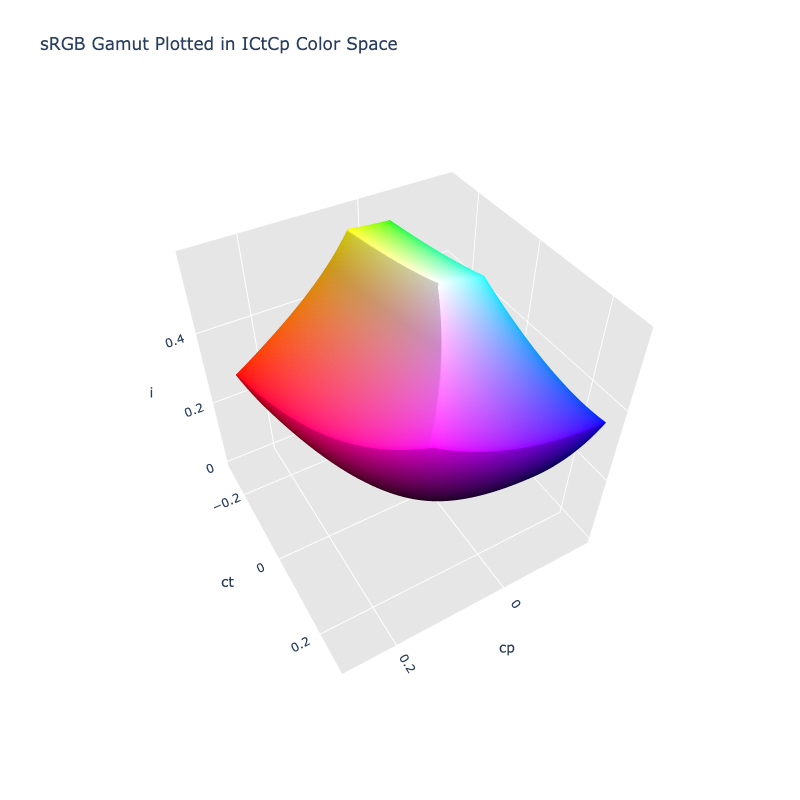
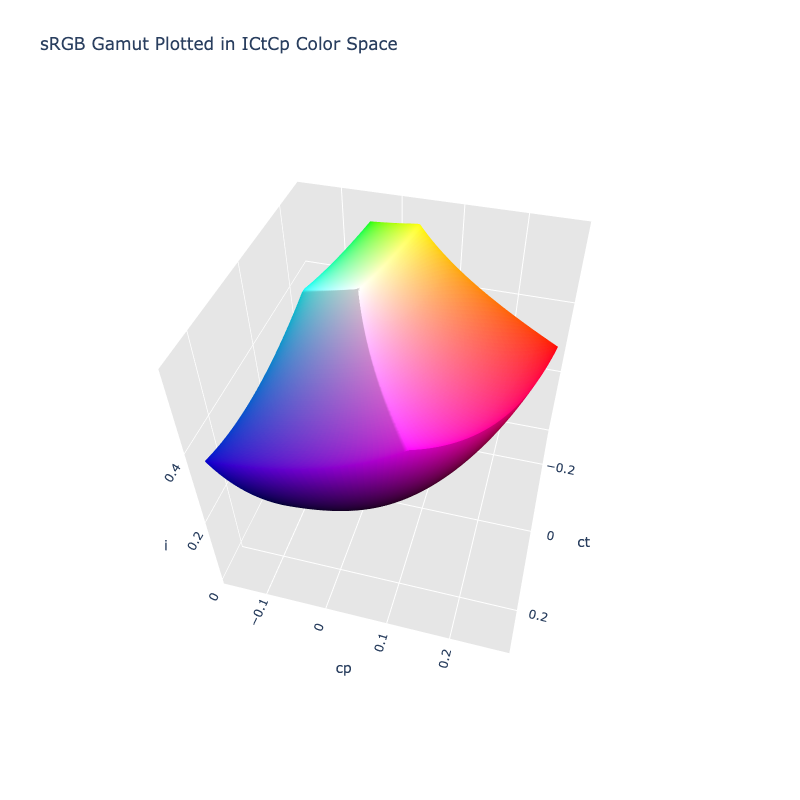
Harmony should be aware of component order on cyl convert (#347)
Additionally, fix some related issues having to do with XYB range,
and what order Lab like colors report their components in.

Changed region(s): [[0.1875, 0.2188, 0.8125, 0.7812], [0.375, 0.7188, 0.6875, 0.8438]]

diff --git a/docs/theme/playground-config-fc36ccf6.js b/docs/theme/playground-config-fc36ccf6.js
@@ -1,0 +1,5 @@
+var colorNotebook = {
+    "playgroundWheels": ['Pygments-2.12.0-py3-none-any.whl', 'coloraide-2.7.1-py3-none-any.whl'],
+    "notebookWheels": ['pyyaml', 'Markdown-3.3.4-py3-none-any.whl', 'pymdown_extensions-9.10-py3-none-any.whl', 'Pygments-2.12.0-py3-none-any.whl', 'coloraide-2.7.1-py3-none-any.whl'],
+    "defaultPlayground": "import coloraide\ncoloraide.__version__\nColor('red')"
+}

diff --git a/docs/src/markdown/demos/colorpicker.html b/docs/src/markdown/demos/colorpicker.html
@@ -404,7 +404,7 @@
     let pyodide = null
     let webspace = ''
     let initial = 'oklab(0.69 0.13 -0.1 / 0.85)'
-    let package = 'coloraide-2.7-py3-none-any.whl'
+    let package = 'coloraide-2.7.1-py3-none-any.whl'
     const displayMapping = 'clip'
 
     const base = `${window.location.origin}/${window.location.pathname.split('/')[1]}/playground/`

diff --git a/docs/src/markdown/demos/3d_models.html b/docs/src/markdown/demos/3d_models.html
@@ -661,7 +661,7 @@ let busyTarget = null
 let colorSpaces = null
 let colorGamuts = null
 let lastModel = null
-let package = 'coloraide-2.7-py3-none-any.whl'
+let package = 'coloraide-2.7.1-py3-none-any.whl'
 const defaultSpace = 'lab'
 const defaultGamut = 'srgb'
 const exceptions = new Set(['hwb', 'hpluv'])

diff --git a/coloraide/harmonies.py b/coloraide/harmonies.py
@@ -7,6 +7,7 @@ from .spaces.hsl import HSL
 from .spaces.lch import LCh
 from .cat import WHITES
 from . import util
+from .types import Vector
 from typing import TYPE_CHECKING, Any
 
 if TYPE_CHECKING:  # pragma: no cover
@@ -14,6 +15,44 @@ if TYPE_CHECKING:  # pragma: no cover
 
 WHITE = util.xy_to_xyz(WHITES['2deg']['D65'])
 BLACK = [0, 0, 0]
+
+
+class _HarmonyLCh(LCh):
+    """Special LCh mapping class for harmonies."""
+
+    INDEXES = [0, 1, 2]
+
+    def to_base(self, coords: Vector) -> Vector:
+        """Convert to the base."""
+
+        ordered = [0.0, 0.0, 0.0]
+        for e, c in enumerate(super().to_base(coords)):
+            ordered[self.INDEXES[e]] = c
+        return ordered
+
+    def from_base(self, coords: Vector) -> Vector:
+        """Convert from the base."""
+
+        return super().from_base([coords[i] for i in self.INDEXES])
+
+
+class _HarmonyHSL(HSL):
+    """Special HSL mapping class for harmonies."""
+
+    INDEXES = [0, 1, 2]
+
+    def to_base(self, coords: Vector) -> Vector:
+        """Convert to the base."""
+
+        ordered = [0.0, 0.0, 0.0]
+        for e, c in enumerate(super().to_base(coords)):
+            ordered[self.INDEXES[e]] = c
+        return ordered
+
+    def from_base(self, coords: Vector) -> Vector:
+        """Convert from the base."""
+
+        return super().from_base([coords[i] for i in self.INDEXES])
 
 
 def adjust_hue(hue: float, deg: float) -> float:
@@ -41,12 +80,13 @@ class Harmony(metaclass=ABCMeta):
             cs = color._space  # type: Space
             name = color.space()
 
-            class HarmonyLCh(LCh):
+            class HarmonyLCh(_HarmonyLCh):
                 NAME = '-harmony-cylinder'
                 SERIALIZE = ('---harmoncy-cylinder',)
                 BASE = name
                 WHITE = cs.WHITE
                 DYAMIC_RANGE = cs.DYNAMIC_RANGE
+                INDEXES = cs.indexes()  # type: ignore[attr-defined]
 
             class ColorCyl(type(color)):  # type: ignore[misc]
                 """Custom color."""
@@ -60,13 +100,14 @@ class Harmony(metaclass=ABCMeta):
             cs = color._space
             name = color.space()
 
-            class HarmonyHSL(HSL):
+            class HarmonyHSL(_HarmonyHSL, HSL):
                 NAME = '-harmony-cylinder'
                 SERIALIZE = ('---harmoncy-cylinder',)
                 BASE = name
                 GAMUT_CHECK = name
                 WHITE = cs.WHITE
                 DYAMIC_RANGE = cs.DYNAMIC_RANGE
+                INDEXES = cs.indexes() if hasattr(cs, 'indexes') else [0, 1, 2]
 
             class ColorCyl(type(color)):  # type: ignore[no-redef, misc]
                 """Custom color."""

diff --git a/tools/gen_3d_models.py b/tools/gen_3d_models.py
@@ -58,7 +58,7 @@ models = {
     'rlab': {'title': TEMPLATE.format('RLAB'), 'filename': 'rlab-3d.png'},
     'hunter-lab': {'title': TEMPLATE.format('Hunter Lab'), 'filename': 'hunter-lab-3d.png', 'elev': 5, 'azim': -30},
     'ipt': {'title': TEMPLATE.format('IPT'), 'filename': 'ipt-3d.png'},
-    'ictcp': {'title': TEMPLATE.format('ICtCp'), 'filename': 'ictcp-3d.png', 'azim': 60},
+    'ictcp': {'title': TEMPLATE.format('ICtCp'), 'filename': 'ictcp-3d.png', 'azim': 15},
     'igpgtg': {'title': TEMPLATE.format('IgPgTg'), 'filename': 'igpgtg-3d.png'},
     'cam16': {'title': TEMPLATE.format('CAM16'), 'filename': 'cam16-3d.png'},
     'cam16-ucs': {'title': TEMPLATE.format('CAM16 UCS'), 'filename': 'cam16-ucs-3d.png'},
@@ -67,7 +67,7 @@ models = {
     'cam16-jmh': {'title': TEMPLATE.format('CAM16 JMh'), 'filename': 'cam16-jmh-3d.png'},
     'hct': {'title': TEMPLATE.format('HCT'), 'filename': 'hct-3d.png'},
     'cmy': {'title': TEMPLATE.format('CMY'), 'filename': 'cmy-3d.png'},
-    'orgb': {'title': TEMPLATE.format('oRGB'), 'filename': 'orgb-3d.png', 'elev': 72},
+    'orgb': {'title': TEMPLATE.format('oRGB'), 'filename': 'orgb-3d.png', 'azim': -90, 'elev': 80},
     'xyb': {'title': TEMPLATE.format('XYB'), 'filename': 'xyb-3d.png', 'azim': 45},
     'ucs': {'title': TEMPLATE.format('UCS'), 'filename': 'ucs-3d.png', 'azim': 60, 'elev': 10},
     'ryb': {'title': 'RYB Color Space', 'filename': 'ryb-3d.png', 'gamut': 'ryb'},

diff --git a/tests/test_xyb.py b/tests/test_xyb.py
@@ -22,12 +22,12 @@ class TestXYB(util.ColorAssertsPyTest):
         # Test color
         ('color(--xyb 0.5 0.1 -0.1)', 'color(--xyb 0.5 0.1 -0.1)'),
         ('color(--xyb 0.5 0.1 -0.1 / 0.5)', 'color(--xyb 0.5 0.1 -0.1 / 0.5)'),
-        ('color(--xyb 50% 50% -50% / 50%)', 'color(--xyb 0.225 0.4225 -0.225 / 0.5)'),
+        ('color(--xyb 50% 50% -50% / 50%)', 'color(--xyb 0.025 0.4225 -0.225 / 0.5)'),
         ('color(--xyb none none none / none)', 'color(--xyb none none none / none)'),
         # Test percent ranges
         ('color(--xyb 0% 0% 0%)', 'color(--xyb 0 0 0)'),
-        ('color(--xyb 100% 100% 100%)', 'color(--xyb 0.45 0.845 0.45)'),
-        ('color(--xyb -100% -100% -100%)', 'color(--xyb -0.45 -0.845 -0.45)')
+        ('color(--xyb 100% 100% 100%)', 'color(--xyb 0.05 0.845 0.45)'),
+        ('color(--xyb -100% -100% -100%)', 'color(--xyb -0.05 -0.845 -0.45)')
     ]
 
     @pytest.mark.parametrize('color1,color2', COLORS)

diff --git a/coloraide/spaces/ictcp.py b/coloraide/spaces/ictcp.py
@@ -102,17 +102,6 @@ class ICtCp(Lab):
     WHITE = WHITES['2deg']['D65']
     DYNAMIC_RANGE = 'hdr'
 
-    def names(self) -> tuple[str, ...]:
-        """
-        Return Lab-ish names in the order L a b.
-
-        ICtCp flips protan and tritan (which corresponds to `a` and `b`).
-        Interestingly, the polarity of tritan (yellow/blue) is also flipped.
-        """
-
-        channels = self.channels
-        return channels[0], channels[2], channels[1]
-
     def to_base(self, coords: Vector) -> Vector:
         """To XYZ from ICtCp."""
 

diff --git a/coloraide/spaces/orgb.py b/coloraide/spaces/orgb.py
@@ -75,16 +75,6 @@ class oRGB(Labish, Space):
         "luma": "l"
     }
 
-    def names(self) -> tuple[str, ...]:
-        """
-        Return Lab-ish names in the order L a b.
-
-        oRGB flips the `crg` and `cyb` equivalent (which corresponds to `a` and `b`).
-        """
-
-        channels = self.channels
-        return channels[0], channels[2], channels[1]
-
     def to_base(self, coords: Vector) -> Vector:
         """To base from oRGB."""
 

diff --git a/coloraide/spaces/xyb.py b/coloraide/spaces/xyb.py
@@ -77,7 +77,7 @@ class XYB(Labish, Space):
     SERIALIZE = ("--xyb",)
     WHITE = WHITES['2deg']['D65']
     CHANNELS = (
-        Channel("x", -0.45, 0.45, flags=FLG_MIRROR_PERCENT),
+        Channel("x", -0.05, 0.05, flags=FLG_MIRROR_PERCENT),
         Channel("y", 0.0, 0.845),
         Channel("b", -0.45, 0.45, flags=FLG_MIRROR_PERCENT)
     )

diff --git a/tests/test_ictcp.py b/tests/test_ictcp.py
@@ -100,4 +100,4 @@ class TestICtCpProperties(util.ColorAsserts, unittest.TestCase):
         """Test `labish_names`."""
 
         c = Color('color(--ictcp 1 0.2 -0.3 / 1)')
-        self.assertEqual(c._space.names(), ('i', 'cp', 'ct'))
+        self.assertEqual(c._space.names(), ('i', 'ct', 'cp'))

diff --git a/tests/test_orgb.py b/tests/test_orgb.py
@@ -100,4 +100,4 @@ class TestoRGBPoperties(util.ColorAsserts, unittest.TestCase):
         """Test `labish_names`."""
 
         c = Color('color(--orgb 1 0.5 0.5)')
-        self.assertEqual(c._space.names(), ('l', 'crg', 'cyb'))
+        self.assertEqual(c._space.names(), ('l', 'cyb', 'crg'))

diff --git a/tools/gamut_3d_plotly.py b/tools/gamut_3d_plotly.py
@@ -17,7 +17,7 @@ except ImportError:
 from coloraide.spaces import HSLish, HSVish, Cylindrical, Labish, LChish, RGBish  # noqa: E402
 from coloraide import algebra as alg  # noqa: E402
 
-FORCE_RECT = ('cmy', 'ryb')
+FORCE_RECT = ('cmy', 'ryb', 'ryb-biased')
 
 
 def create_custom_hsl(gamut):
